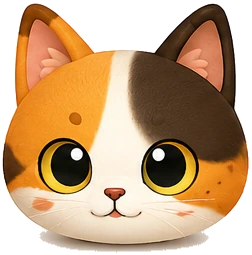
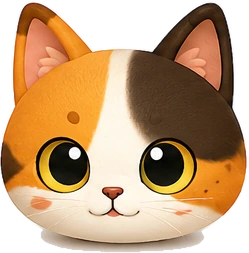
feat(ui): light-only theme, clean cat cutouts, sounds & UI polish
- Lock the app to light theme; remove the dark-theme and pattern-marks
  toggles from Settings (device colour-scheme no longer followed).
- Re-cut every cat head (idle + happy) from the source sheets with
  feathered alpha + white decontamination and no baked contact shadow —
  clean heads, no white halo, on any tile.
- Wire happy sprites (kc_kitty_list3_happy) into the victory celebration
  wave; drop the board cat CSS drop-shadow.
- Sound: joyful win jingle on the win-screen transition, a cheer trill
  when cats bounce, and tap/commit/cheer cues in the tutorial.
- Level numbering: tutorial = level 1, real levels display +1 (pool
  content unchanged). Play hides the level until the tutorial is done;
  tutorial finish button now reads 'Next level'.
- Board drop shadow; main-screen streak moved right of '?'; Settings
  shows How-to-play on top and Continue at the bottom; green CTA text
  matches the Play button; score removed from the game HUD (kept on
  victory + leaderboard).

diff --git a/game/src/lib/skin.ts b/game/src/lib/skin.ts
@@ -1,8 +1,8 @@
 /**
  * Art skin v2 (reference: kc_reference.png, cats: kc_kitty_list3.png).
  * Each region id gets its own cat breed; sprites cut from kc_kitty_list3.
- * `idle` on the board, `happy` during the victory celebration wave.
- * NOTE: happy poses are pending a separate sheet — same sprite for both, for now.
+ * `idle` on the board, `happy` (from kc_kitty_list3_happy) during the victory
+ * celebration wave.
  */
 import bsh from '../assets/k3_bsh.webp';
 import bengal from '../assets/k3_bengal.webp';
@@ -14,26 +14,34 @@ import mainecoon from '../assets/k3_mainecoon.webp';
 import scottishfold from '../assets/k3_scottishfold.webp';
 import ragdoll from '../assets/k3_ragdoll.webp';
 import sphynx from '../assets/k3_sphynx.webp';
+import bshHappy from '../assets/k3happy_bsh.webp';
+import bengalHappy from '../assets/k3happy_bengal.webp';
+import bombayHappy from '../assets/k3happy_bombay.webp';
+import persianHappy from '../assets/k3happy_persian.webp';
+import siameseHappy from '../assets/k3happy_siamese.webp';
+import calicoHappy from '../assets/k3happy_calico.webp';
+import mainecoonHappy from '../assets/k3happy_mainecoon.webp';
+import scottishfoldHappy from '../assets/k3happy_scottishfold.webp';
+import ragdollHappy from '../assets/k3happy_ragdoll.webp';
+import sphynxHappy from '../assets/k3happy_sphynx.webp';
 
 export interface CatSprite {
   idle: string;
   happy: string;
 }
 
-const same = (src: string): CatSprite => ({ idle: src, happy: src });
-
 /** Order tuned so early levels (few regions) get the most contrasting breeds. */
 const BREEDS: CatSprite[] = [
-  same(bsh), // gray
-  same(bengal), // orange spotted
-  same(bombay), // black
-  same(persian), // white fluffy
-  same(siamese), // cream, dark points
-  same(calico), // tri-color
-  same(mainecoon), // brown tabby
-  same(scottishfold), // beige, folded ears
-  same(ragdoll), // cream/brown, blue eyes
-  same(sphynx) // pink hairless
+  { idle: bsh, happy: bshHappy }, // gray
+  { idle: bengal, happy: bengalHappy }, // orange spotted
+  { idle: bombay, happy: bombayHappy }, // black
+  { idle: persian, happy: persianHappy }, // white fluffy
+  { idle: siamese, happy: siameseHappy }, // cream, dark points
+  { idle: calico, happy: calicoHappy }, // tri-color
+  { idle: mainecoon, happy: mainecoonHappy }, // brown tabby
+  { idle: scottishfold, happy: scottishfoldHappy }, // beige, folded ears
+  { idle: ragdoll, happy: ragdollHappy }, // cream/brown, blue eyes
+  { idle: sphynx, happy: sphynxHappy } // pink hairless
 ];
 
 /** Breed roster for the Collection overlay (order matches BREEDS). */

diff --git a/game/src/screens/SettingsOverlay.svelte b/game/src/screens/SettingsOverlay.svelte
@@ -2,7 +2,7 @@
   /** Settings overlay = pause (GDD §5.3). Board underneath is blurred by App via .blurred. */
   import HowToPlay from '../components/HowToPlay.svelte';
   import { settingsOpen, restartFromSettings, quitToMenu, screen } from '../lib/game';
-  import { soundOn, vibrationOn, patternMarksOn, darkMode, toggleDarkTheme } from '../lib/settings';
+  import { soundOn, vibrationOn } from '../lib/settings';
 
   let confirmRestart = false;
   let showHow = false;
@@ -33,24 +33,18 @@
       <button class="set-row center" on:click={() => (confirmRestart = false)}>Cancel</button>
     {:else}
       <h2>Settings</h2>
-      <button class="cta" on:click={close}>Continue</button>
+      <button class="set-row center" on:click={() => (showHow = true)}>How to play</button>
       <button class="set-row" on:click={() => soundOn.update((v) => !v)}>
         Sound <span class="toggle" class:off={!$soundOn} role="switch" aria-checked={$soundOn}></span>
       </button>
       <button class="set-row" on:click={() => vibrationOn.update((v) => !v)}>
         Vibration <span class="toggle" class:off={!$vibrationOn} role="switch" aria-checked={$vibrationOn}></span>
       </button>
-      <button class="set-row" on:click={() => patternMarksOn.update((v) => !v)}>
-        Pattern marks <span class="toggle" class:off={!$patternMarksOn} role="switch" aria-checked={$patternMarksOn}></span>
-      </button>
-      <button class="set-row" on:click={toggleDarkTheme}>
-        Dark theme <span class="toggle" class:off={!$darkMode} role="switch" aria-checked={$darkMode}></span>
-      </button>
-      <button class="set-row center" on:click={() => (showHow = true)}>How to play</button>
       {#if inGame}
         <button class="set-row center danger-row" on:click={() => (confirmRestart = true)}>Restart level</button>
         <button class="link-quiet exit" on:click={quitToMenu}>Quit to menu</button>
       {/if}
+      <button class="cta" on:click={close}>Continue</button>
     {/if}
   </div>
 
@@ -90,7 +84,6 @@
   }
   .sheet .cta {
     padding: 13px;
-    font-size: 18px;
   }
   .how {
     font-size: 15px;

diff --git a/game/src/lib/audio.ts b/game/src/lib/audio.ts
@@ -50,6 +50,23 @@ function tone(freq: number, dur: number, type: OscillatorType, gain = 0.08, when
   osc.stop(t0 + dur + 0.02);
 }
 
+/** A single pitch-gliding note — used for playful "mrrp" cat chirps. */
+function glide(f0: number, f1: number, dur: number, type: OscillatorType, gain = 0.07, when = 0): void {
+  const c = ac();
+  if (!c) return;
+  const t0 = c.currentTime + when;
+  const osc = c.createOscillator();
+  const g = c.createGain();
+  osc.type = type;
+  osc.frequency.setValueAtTime(f0, t0);
+  osc.frequency.exponentialRampToValueAtTime(f1, t0 + dur);
+  g.gain.setValueAtTime(gain, t0);
+  g.gain.exponentialRampToValueAtTime(0.0001, t0 + dur);
+  osc.connect(g).connect(c.destination);
+  osc.start(t0);
+  osc.stop(t0 + dur + 0.02);
+}
+
 export const sfx = {
   tap(): void {
     if (audible()) tone(660, 0.06, 'triangle', 0.05);
@@ -66,7 +83,17 @@ export const sfx = {
   },
   win(): void {
     if (!audible()) return;
-    [523, 659, 784, 1047].forEach((f, i) => tone(f, 0.18, 'triangle', 0.08, i * 0.09));
+    // joyful ascending C-major arpeggio, then a bright shimmer to finish
+    [523.25, 659.25, 783.99, 1046.5].forEach((f, i) => tone(f, 0.22, 'triangle', 0.09, i * 0.08));
+    tone(1318.5, 0.3, 'sine', 0.06, 0.34); // E6
+    tone(1567.98, 0.42, 'sine', 0.05, 0.4); // G6 sparkle
+  },
+  /** Happy cats bouncing on their cells — a rising trill of playful chirps. */
+  cheer(): void {
+    if (!audible()) return;
+    glide(500, 900, 0.14, 'triangle', 0.06, 0);
+    glide(650, 1100, 0.14, 'triangle', 0.06, 0.15);
+    glide(820, 1320, 0.18, 'triangle', 0.055, 0.32);
   },
   lose(): void {
     if (!audible()) return;

diff --git a/game/src/screens/MainScreen.svelte b/game/src/screens/MainScreen.svelte
@@ -3,7 +3,7 @@
   import HowToPlay from '../components/HowToPlay.svelte';
   import LeaderboardOverlay from '../components/LeaderboardOverlay.svelte';
   import CollectionOverlay from '../components/CollectionOverlay.svelte';
-  import { levelNumber, streak, startGame, settingsOpen } from '../lib/game';
+  import { levelNumber, streak, startGame, settingsOpen, tutorialDone } from '../lib/game';
   import { leaderboardType, showNativePopup } from '../lib/leaderboard';
   import { mainHeroUrl, mainLeavesUrl, mainButterflyUrl, mainPawtrailUrl } from '../lib/skin';
 
@@ -25,15 +25,15 @@
 
   <div class="top-icons">
     <div class="left-icons">
+      <button class="squircle" aria-label="How to play" on:click={() => (showHow = true)}>
+        <svg><use href="#ic-q" /></svg>
+      </button>
       {#if $streak > 0}
         <div class="squircle streak-badge" aria-label="{$streak} level streak">
           <svg viewBox="0 0 24 28" class="flame"><use href="#ic-flame" /></svg>
           <b>{$streak}</b>
         </div>
       {/if}
-      <button class="squircle" aria-label="How to play" on:click={() => (showHow = true)}>
-        <svg><use href="#ic-q" /></svg>
-      </button>
     </div>
     <button class="squircle" aria-label="Settings" on:click={() => settingsOpen.set(true)}>
       <svg><use href="#ic-gear" /></svg>
@@ -52,7 +52,7 @@
 
     <button class="play-big" on:click={startGame}>
       Play
-      <small>Level {$levelNumber}</small>
+      {#if $tutorialDone}<small>Level {$levelNumber + 1}</small>{/if}
     </button>
 
     <div class="side-btn">

diff --git a/game/src/lib/settings.ts b/game/src/lib/settings.ts
@@ -1,5 +1,5 @@
 /** User settings (GDD §5.3), persisted. Pattern marks render is post-MVP (§8) — toggle stored only. */
-import { writable, get } from 'svelte/store';
+import { writable } from 'svelte/store';
 import { storage } from './storage';
 import { setSoundEnabled } from './audio';
 import { setVibrationEnabled } from './haptics';
@@ -18,25 +18,9 @@ vibrationOn.subscribe((v) => {
 });
 patternMarksOn.subscribe((v) => storage.set('patternMarks', v));
 
-/** Theme: follows the system until the player flips the toggle, then sticks. */
-export type ThemePref = 'auto' | 'light' | 'dark';
-const mq =
-  typeof window !== 'undefined' && window.matchMedia
-    ? window.matchMedia('(prefers-color-scheme: dark)')
-    : null;
-
-export const themePref = writable<ThemePref>(storage.get('theme', 'auto'));
-themePref.subscribe((v) => storage.set('theme', v));
-
-/** Effective theme, resolved against the system preference. */
+/**
+ * Theme is locked to light for now — dark theme is temporarily disabled and its
+ * toggle is hidden from Settings. Device colour-scheme is intentionally ignored;
+ * the app always starts (and stays) light.
+ */
 export const darkMode = writable<boolean>(false);
-function recomputeDark(): void {
-  const p = get(themePref);
-  darkMode.set(p === 'auto' ? !!mq?.matches : p === 'dark');
-}
-themePref.subscribe(recomputeDark);
-mq?.addEventListener?.('change', recomputeDark);
-
-export function toggleDarkTheme(): void {
-  themePref.set(get(darkMode) ? 'light' : 'dark');
-}

diff --git a/game/src/lib/tutorial.ts b/game/src/lib/tutorial.ts
@@ -9,6 +9,7 @@
  */
 import { writable, get } from 'svelte/store';
 import type { LevelDef, CellState } from './types';
+import { sfx } from './audio';
 
 /** Hand-built 4×4 level. Unique solution: (0,1) (1,3) (2,0) (3,2); given: (2,0). */
 export const TUTORIAL_LEVEL: LevelDef = {
@@ -115,8 +116,10 @@ function advanceIfStepDone(): void {
   const board = get(tutCells);
   const want: CellState = step.action === 'cat' ? 'cat' : 'x';
   if (step.targets.every((t) => board[t] === want)) {
-    if (get(tutStep) === STEPS.length - 1) tutFinished.set(true);
-    else tutStep.update((s) => s + 1);
+    if (get(tutStep) === STEPS.length - 1) {
+      tutFinished.set(true);
+      sfx.cheer(); // happy cats bounce at the end of the guided level
+    } else tutStep.update((s) => s + 1);
   }
 }
 
@@ -134,6 +137,7 @@ export function tutTap(cell: number): void {
     if (next[cell] === 'empty') next[cell] = 'x';
     return next;
   });
+  sfx.tap();
   advanceIfStepDone();
 }
 
@@ -146,5 +150,6 @@ export function tutCommit(cell: number): void {
     next[cell] = 'cat';
     return next;
   });
+  sfx.commit();
   advanceIfStepDone();
 }

diff --git a/game/src/lib/game.ts b/game/src/lib/game.ts
@@ -411,7 +411,6 @@ async function onWin(): Promise<void> {
   // progress persists at the moment of victory (KC-3), not on «Next level»
   winLevel.set(get(levelNumber));
   levelNumber.update((n) => n + 1);
-  sfx.win();
   vibrate([20, 30, 20, 30, 40]);
   analytics.track('level_win', {
     level: get(winLevel),
@@ -422,15 +421,18 @@ async function onWin(): Promise<void> {
   });
   sendPlatformMessage('level_completed');
   if (reducedMotion()) {
+    sfx.win(); // joyful cue as the win screen appears
     screen.set('victory');
     queueGain(score, newTotal, true); // panel updates instantly, no flight
     return;
   }
   inputLocked = true;
   celebrating.set(true);
+  sfx.cheer(); // joyful cats bouncing on their cells
   outcomeTimer = setTimeout(() => {
     inputLocked = false;
     celebrating.set(false);
+    sfx.win(); // joyful cue as the win screen appears
     screen.set('victory');
     // Р-44: the "+points" flight starts ON the win screen, not during the celebration
     queueGain(score, newTotal);

diff --git a/game/src/screens/TutorialScreen.svelte b/game/src/screens/TutorialScreen.svelte
@@ -108,7 +108,7 @@
       <div class="sheet">
         <h2>You're ready</h2>
         <p>That's all there is to it — one cat per color, row and column, never touching. Enjoy the puzzles.</p>
-        <button class="cta" on:click={finishTutorial}>Start Level 1</button>
+        <button class="cta" on:click={finishTutorial}>Next level</button>
       </div>
     </div>
   {/if}
@@ -163,7 +163,6 @@
   .next-btn {
     align-self: center;
     padding: 9px 26px;
-    font-size: 15px;
   }
   .board-wrap {
     display: flex;
@@ -206,7 +205,6 @@
   }
   .sheet .cta {
     padding: 13px;
-    font-size: 18px;
   }
   /* Desktop / landscape: keep the column narrow and centered. */
   @media (min-aspect-ratio: 1 / 1) {

diff --git a/game/src/screens/GameScreen.svelte b/game/src/screens/GameScreen.svelte
@@ -19,7 +19,6 @@
     celebrating,
     givenCells,
     introOrigin,
-    totalScore,
     elapsedSeconds,
     quitToMenu,
     useAutocat,
@@ -54,13 +53,8 @@
 
     <div class="hud-pill">
       <div class="hud-block hud-level">
-        <span class="hud-title">Level {$activeLevelNumber}</span>
+        <span class="hud-title">Level {$activeLevelNumber + 1}</span>
         <Hearts value={$hearts} size={22} />
-      </div>
-      <span class="hud-sep"></span>
-      <div class="hud-block">
-        <span class="hud-label">Score</span>
-        <span class="hud-value">{$totalScore}</span>
       </div>
       <span class="hud-sep"></span>
       <div class="hud-block">

diff --git a/game/src/components/Board.svelte b/game/src/components/Board.svelte
@@ -218,7 +218,8 @@
     border: none;
     /* art skin v2 (kc_reference): white backing panel outlines the flat tiles */
     background: var(--surface);
-    box-shadow: var(--shadow);
+    /* soft drop shadow under the playing field */
+    box-shadow: 0 14px 30px rgba(125, 74, 73, 0.18), 0 4px 10px rgba(125, 74, 73, 0.10);
     touch-action: none;
     user-select: none;
     -webkit-user-select: none;
@@ -246,7 +247,6 @@
     left: 6%;
     width: 88%;
     height: 94%;
-    filter: drop-shadow(0 2.5px 2px rgba(70, 40, 15, 0.22));
   }
   .cell .xmark {
     /* paw mark = darker tint of the tile color, like the reference */

diff --git a/game/src/screens/VictoryScreen.svelte b/game/src/screens/VictoryScreen.svelte
@@ -43,7 +43,7 @@
   </div>
 
   <img class="mascot" src={catHappyUrl} alt="" draggable="false" />
-  <h1 class="big-title">Level {$winLevel} done!</h1>
+  <h1 class="big-title">Level {$winLevel + 1} done!</h1>
 
   <div class="win-stats">
     <div class="streak-card">
@@ -348,7 +348,6 @@
     width: 100%;
     max-width: 300px;
     padding: 15px;
-    font-size: 20px;
     margin-top: 8px;
     z-index: 1;
   }

diff --git a/game/src/styles/global.css b/game/src/styles/global.css
@@ -128,7 +128,10 @@ button.icon-btn:active {
    Fixed colors: the sprite stays green/cream in the dark theme too. */
 .cta {
   font-family: 'Baloo 2', sans-serif;
-  font-weight: 700;
+  /* green buttons everywhere match the main-screen Play button */
+  font-weight: 800;
+  font-size: 30px;
+  line-height: 1.05;
   background: transparent;
   color: #fff;
   text-shadow: 0 1.5px 2px rgba(60, 90, 10, 0.35);
